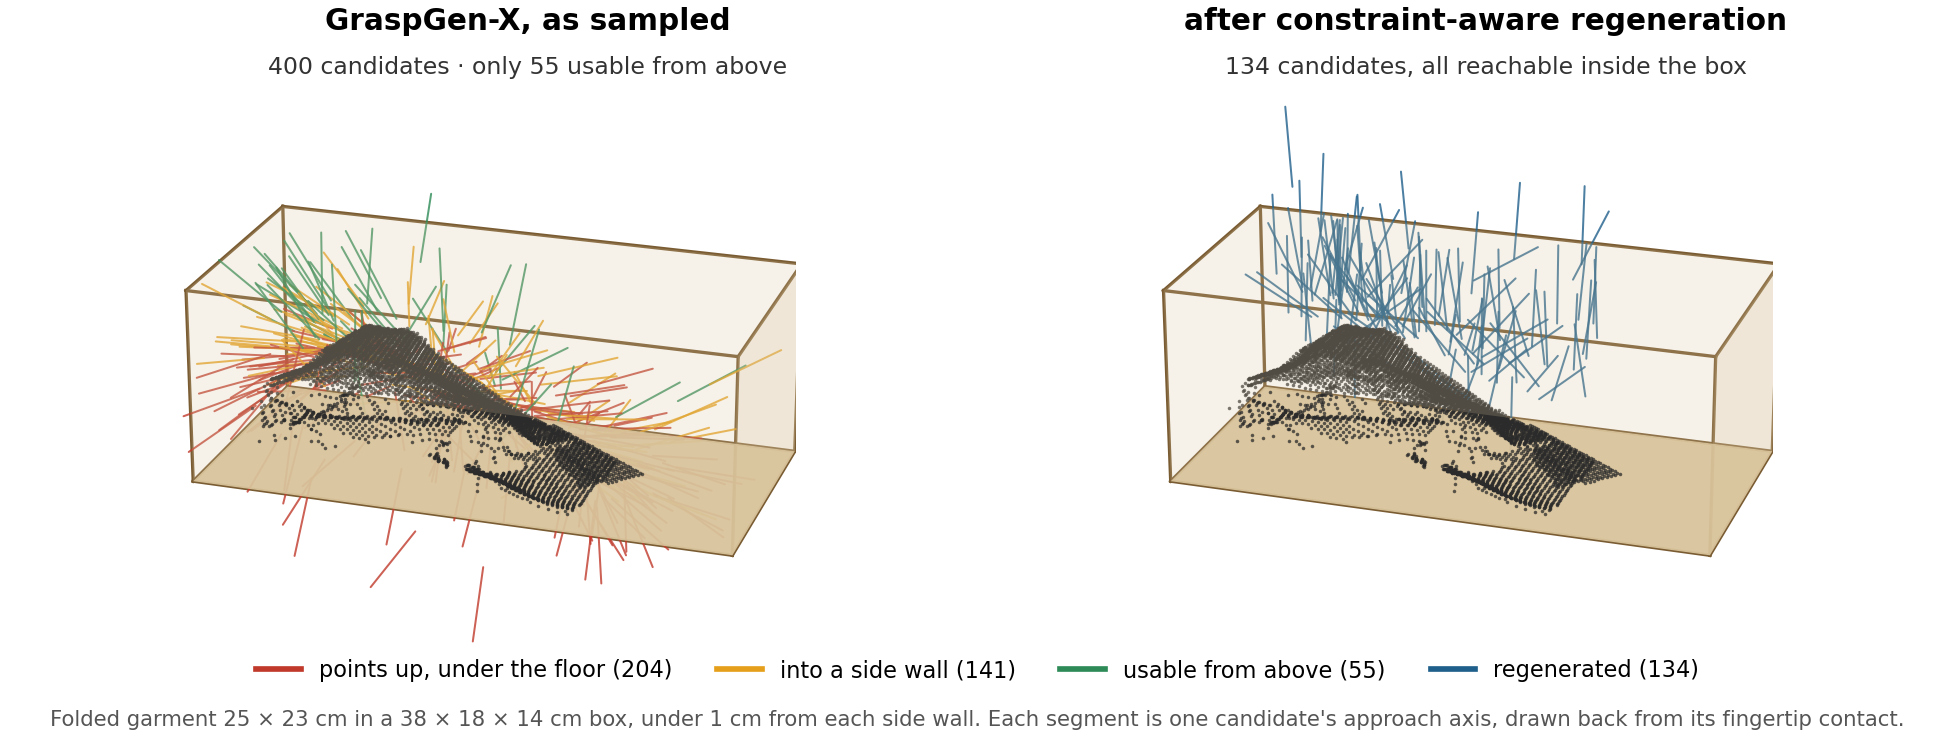
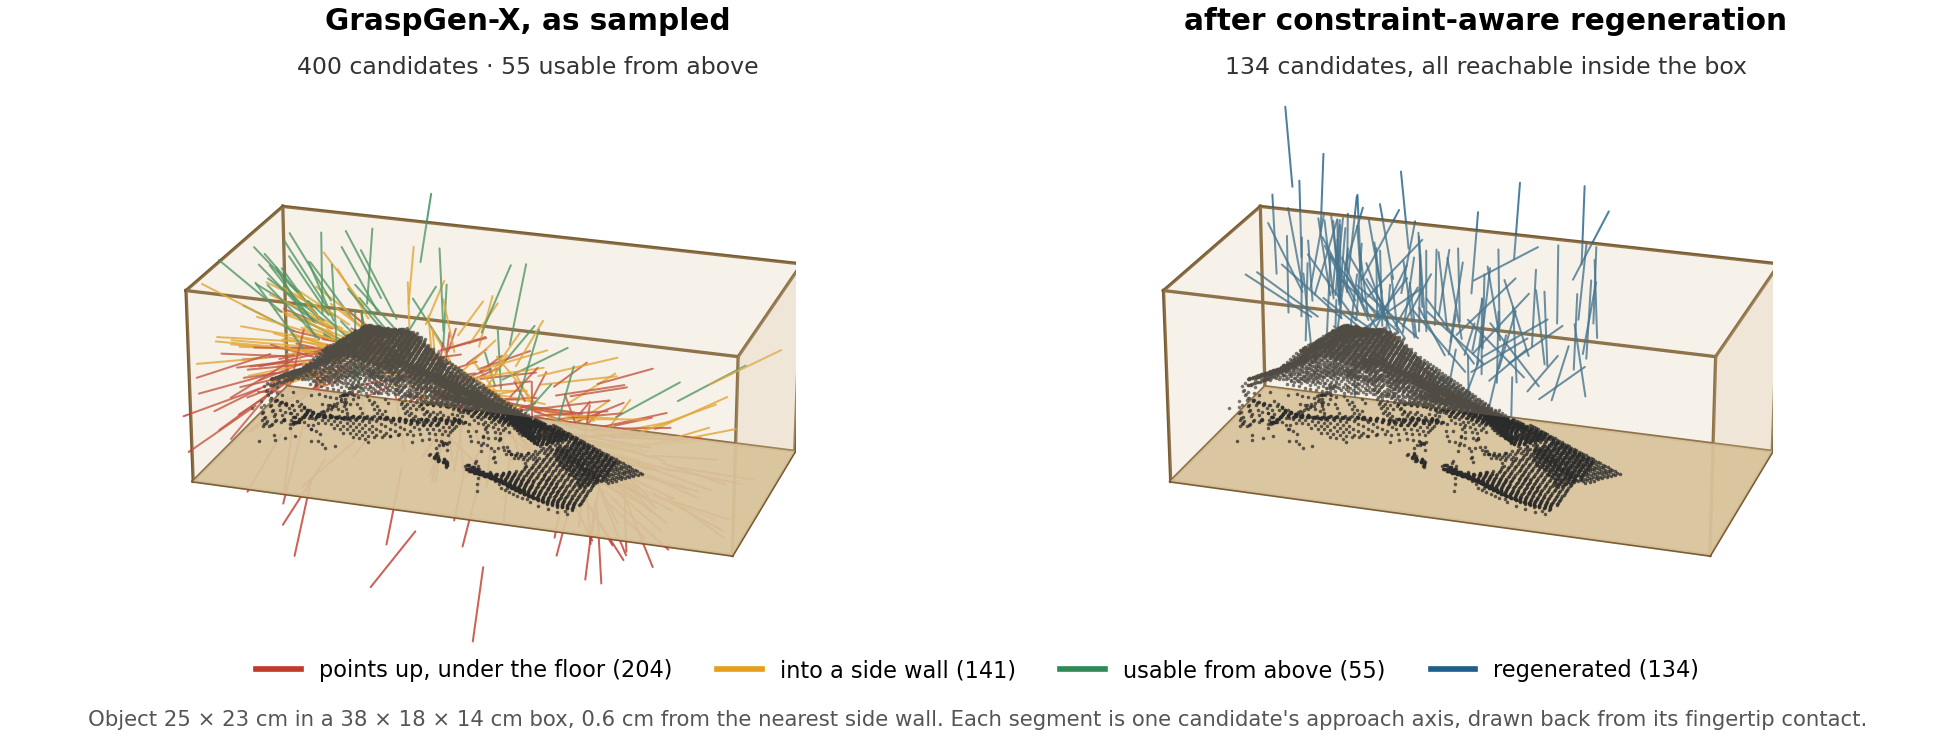
Back to yellow_trim as header figure; measure the wall clearance per object

Changed region(s): [[0.0312, 0.9648, 0.9673, 0.9959], [0.1248, 0.0622, 0.4056, 0.1245]]

diff --git a/scripts/make_hedgehog.py b/scripts/make_hedgehog.py
@@ -55,7 +55,7 @@ def panel(ax, cloud, G, b, colour, title, sub):
     return title, sub
 
 def main() -> int:
-    obj = sys.argv[1] if len(sys.argv) > 1 else "camiseta_doblada"
+    obj = sys.argv[1] if len(sys.argv) > 1 else "yellow_trim"
     z = np.load(os.path.join(D, f"{obj}.npz")); b = json.load(open(os.path.join(D, "box_geometry.json")))
     cloud, raw, reg = z["object_cloud"], z["raw_grasps"], z["regenerated_grasps"]
     ang = geom(raw)[2]
@@ -65,7 +65,7 @@ def main() -> int:
     ax1 = fig.add_subplot(1, 2, 1, projection="3d"); ax2 = fig.add_subplot(1, 2, 2, projection="3d")
     panel(ax1, cloud, raw, b, lambda t: C_UP if t > UP else (C_SIDE if t > CONE else C_CONE), "", "")
     panel(ax2, cloud, reg, b, lambda t: C_REG, "", "")
-    for x, t, sub in ((0.27, "GraspGen-X, as sampled", f"400 candidates · only {n_cone} usable from above"),
+    for x, t, sub in ((0.27, "GraspGen-X, as sampled", f"400 candidates · {n_cone} usable from above"),
                       (0.76, "after constraint-aware regeneration", f"{len(reg)} candidates, all reachable inside the box")):
         fig.text(x, 0.96, t, ha="center", fontsize=12.5, fontweight="bold")
         fig.text(x, 0.90, sub, ha="center", fontsize=10, color="#333")
@@ -74,9 +74,12 @@ def main() -> int:
                     f"usable from above ({n_cone})", f"regenerated ({len(reg)})"],
                loc="lower center", ncol=4, frameon=False, fontsize=9.5, bbox_to_anchor=(0.5, 0.05))
     ext = 100 * (cloud.max(0) - cloud.min(0))
-    fig.text(0.5, 0.018, f"Folded garment {ext[0]:.0f} × {ext[1]:.0f} cm in a "
+    ins = ((cloud[:, 0] > b["x0"]) & (cloud[:, 0] < b["x1"]) & (cloud[:, 1] > b["y0"]) & (cloud[:, 1] < b["y1"]))
+    lo, hi = np.percentile(cloud[ins], [2, 98], axis=0)
+    gap = 100 * min(lo[1] - b["y0"], b["y1"] - hi[1])
+    fig.text(0.5, 0.018, f"Object {ext[0]:.0f} × {ext[1]:.0f} cm in a "
                          f"{100 * (b['x1'] - b['x0']):.0f} × {100 * (b['y1'] - b['y0']):.0f} × "
-                         f"{100 * (b['z1'] - b['z0']):.0f} cm box, under 1 cm from each side wall. "
+                         f"{100 * (b['z1'] - b['z0']):.0f} cm box, {gap:.1f} cm from the nearest side wall. "
                          f"Each segment is one candidate's approach axis, drawn back from its fingertip contact.",
              ha="center", fontsize=9, color="#555")
     fig.subplots_adjust(left=0.0, right=1.0, top=0.93, bottom=0.10, wspace=0.0)

diff --git a/README.md b/README.md
@@ -9,11 +9,11 @@
 <img alt="License" src="https://img.shields.io/badge/License-MIT-lightgrey">
 </p>
 
-![raw vs regenerated candidates inside the box](figures/fig0_hedgehog_camiseta_doblada.png)
+![raw vs regenerated candidates inside the box](figures/fig0_hedgehog_yellow_trim.png)
 
-<sub>The same folded t-shirt, the same 400 GraspGen-X samples. Left: as sampled — half of
-them approach from under the box floor, most of the rest through a side wall, 55 are
-usable from above. Right: after regenerating each candidate under the container's
+<sub>One object inside the box, the same 400 GraspGen-X samples in both panels. Left: as
+sampled — half of them approach from under the box floor and most of the rest through a
+side wall. Right: after regenerating each candidate under the container's
 constraints.</sub>
 
 **What this is.** Numbers, figures and per-candidate data from running
